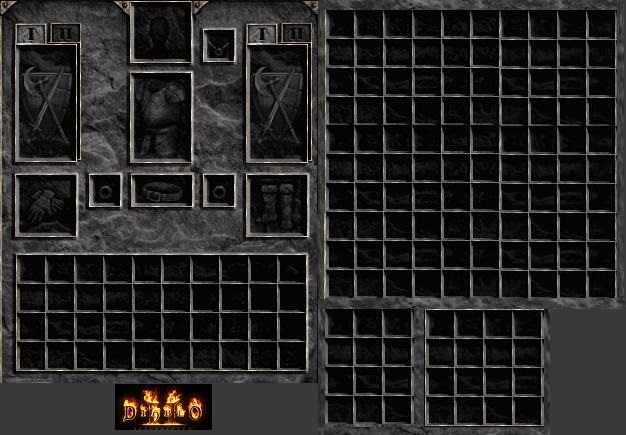
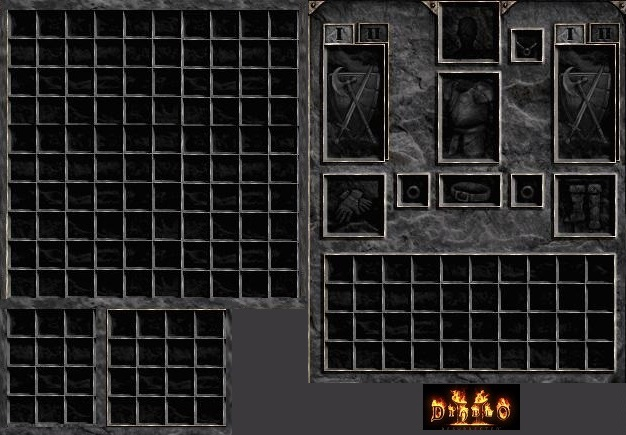
move stash to left and inventory to right in char view. consistent with in-game l/right pos

diff --git a/gomule/src/gomule/gui/D2ViewChar.java b/gomule/src/gomule/gui/D2ViewChar.java
@@ -58,34 +58,36 @@ public class D2ViewChar extends JInternalFrame implements D2ItemContainer, D2Ite
 	private static final int         BG_CURSOR_WIDTH  = 78;
 	private static final int         BG_CURSOR_HEIGHT = 135;
 
-	private static final int         STASH_X          = 327;
+	// change only the X positions for stash-left + inv-right.     (add ~300 to inv,  and subtract ~300 for stash)
+	// also search for hard coded pixel values
+	private static final int         STASH_X          = 7;         // 327 - 320  --> 7
 	private static final int         STASH_Y          = 9;
-	private static final int         INV_X            = 18;
+	private static final int         INV_X            = 18 + 308;        // 18 + 308  --> 326
 	private static final int         INV_Y            = 255;
-	private static final int         HEAD_X           = 135;
+	private static final int         HEAD_X           = 135 + 308;
 	private static final int         HEAD_Y           = 3;
-	private static final int         NECK_X           = 205;
+	private static final int         NECK_X           = 205 + 308;
 	private static final int         NECK_Y           = 30;
-	private static final int         BODY_X           = 135;
+	private static final int         BODY_X           = 135 + 308;
 	private static final int         BODY_Y           = 75;
-	private static final int         L_ARM_X          = 250;
+	private static final int         L_ARM_X          = 250 + 308;
 	private static final int         L_ARM_Y          = 50;
-	private static final int         R_ARM_X          = 20;
+	private static final int         R_ARM_X          = 20 + 308;
 	private static final int         R_ARM_Y          = 50;
-	private static final int         GLOVES_X         = 18;
+	private static final int         GLOVES_X         = 18 + 308;
 	private static final int         GLOVES_Y         = 175;
-	private static final int         BELT_X           = 135;
+	private static final int         BELT_X           = 135 + 308;
 	private static final int         BELT_Y           = 175;
-	private static final int         BOOTS_X          = 250;
+	private static final int         BOOTS_X          = 250 + 308;
 	private static final int         BOOTS_Y          = 175;
-	private static final int         L_RING_X         = 91;
+	private static final int         L_RING_X         = 91 + 308;
 	private static final int         L_RING_Y         = 175;
-	private static final int         R_RING_X         = 205;
+	private static final int         R_RING_X         = 205 + 308;
 	private static final int         R_RING_Y         = 175;
-	private static final int         BELT_GRID_X      = 426;
-	private static final int         BELT_GRID_Y      = 309; //250;   // TODO: update to 314
-	private static final int         CUBE_X           = 328;
-	private static final int         CUBE_Y           = 310; //251;  // TODO: update pixel position to  314
+	private static final int         BELT_GRID_X      = 106;  // 426 - 320 --> 106
+	private static final int         BELT_GRID_Y      = 309; //250;  
+	private static final int         CUBE_X           = 8; // 328 - 320  --> 8
+	private static final int         CUBE_Y           = 310; //251;
 	private static final int         GRID_SIZE        = 28;
 	private static final int         GRID_SPACER      = 1;
 	private static final int         CURSOR_X         = 12;
@@ -1166,6 +1168,7 @@ public class D2ViewChar extends JInternalFrame implements D2ItemContainer, D2Ite
 				}
 			}
 
+			// golem?
 			if((!iIsChar && !iIsCorpse) && x>= 258 && x<=314 && y>=223 && y<= 335){
 				return 1337;
 			}
